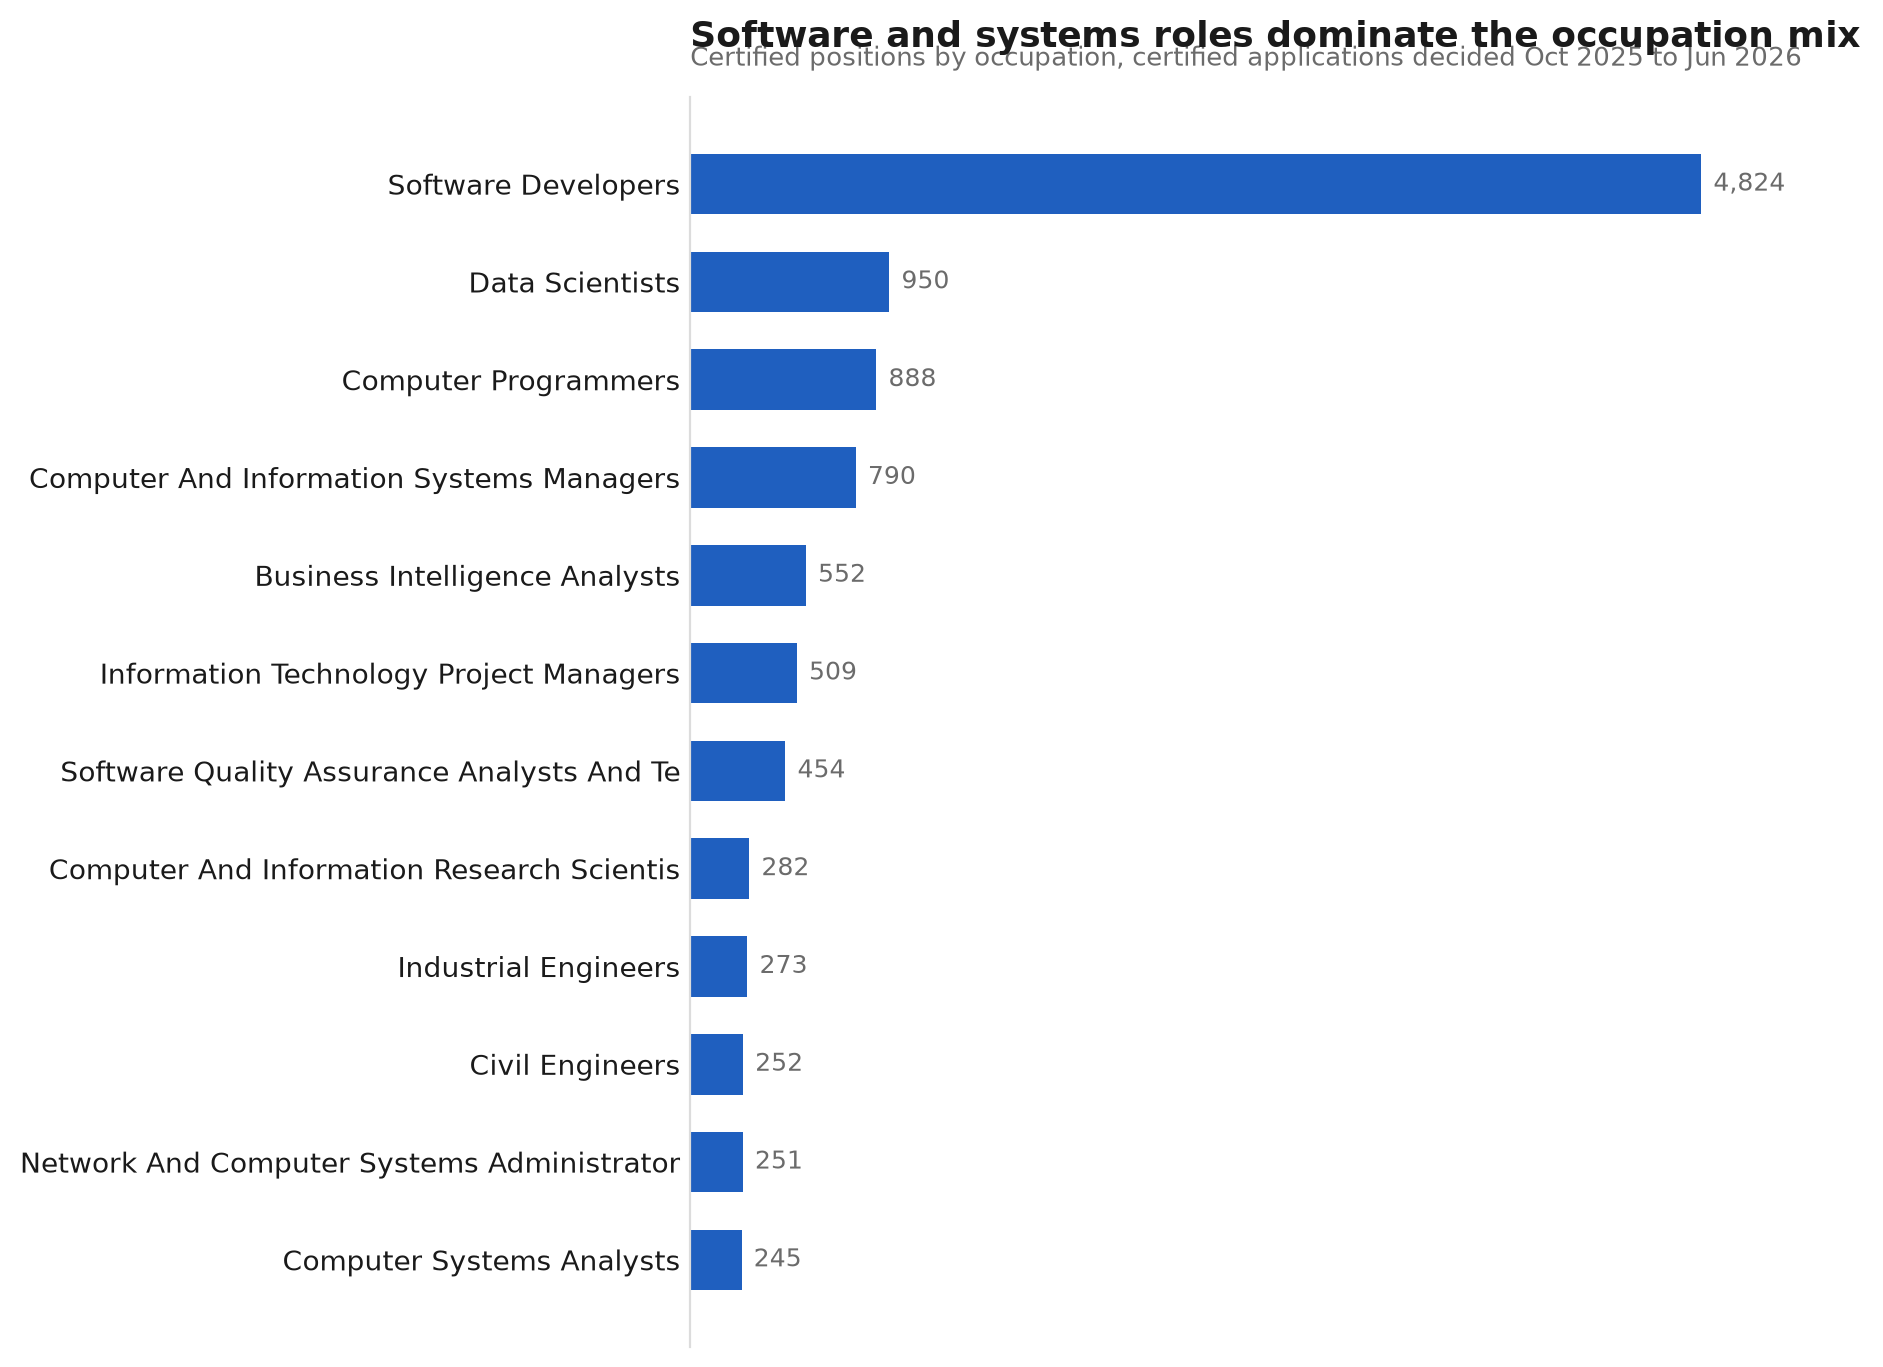
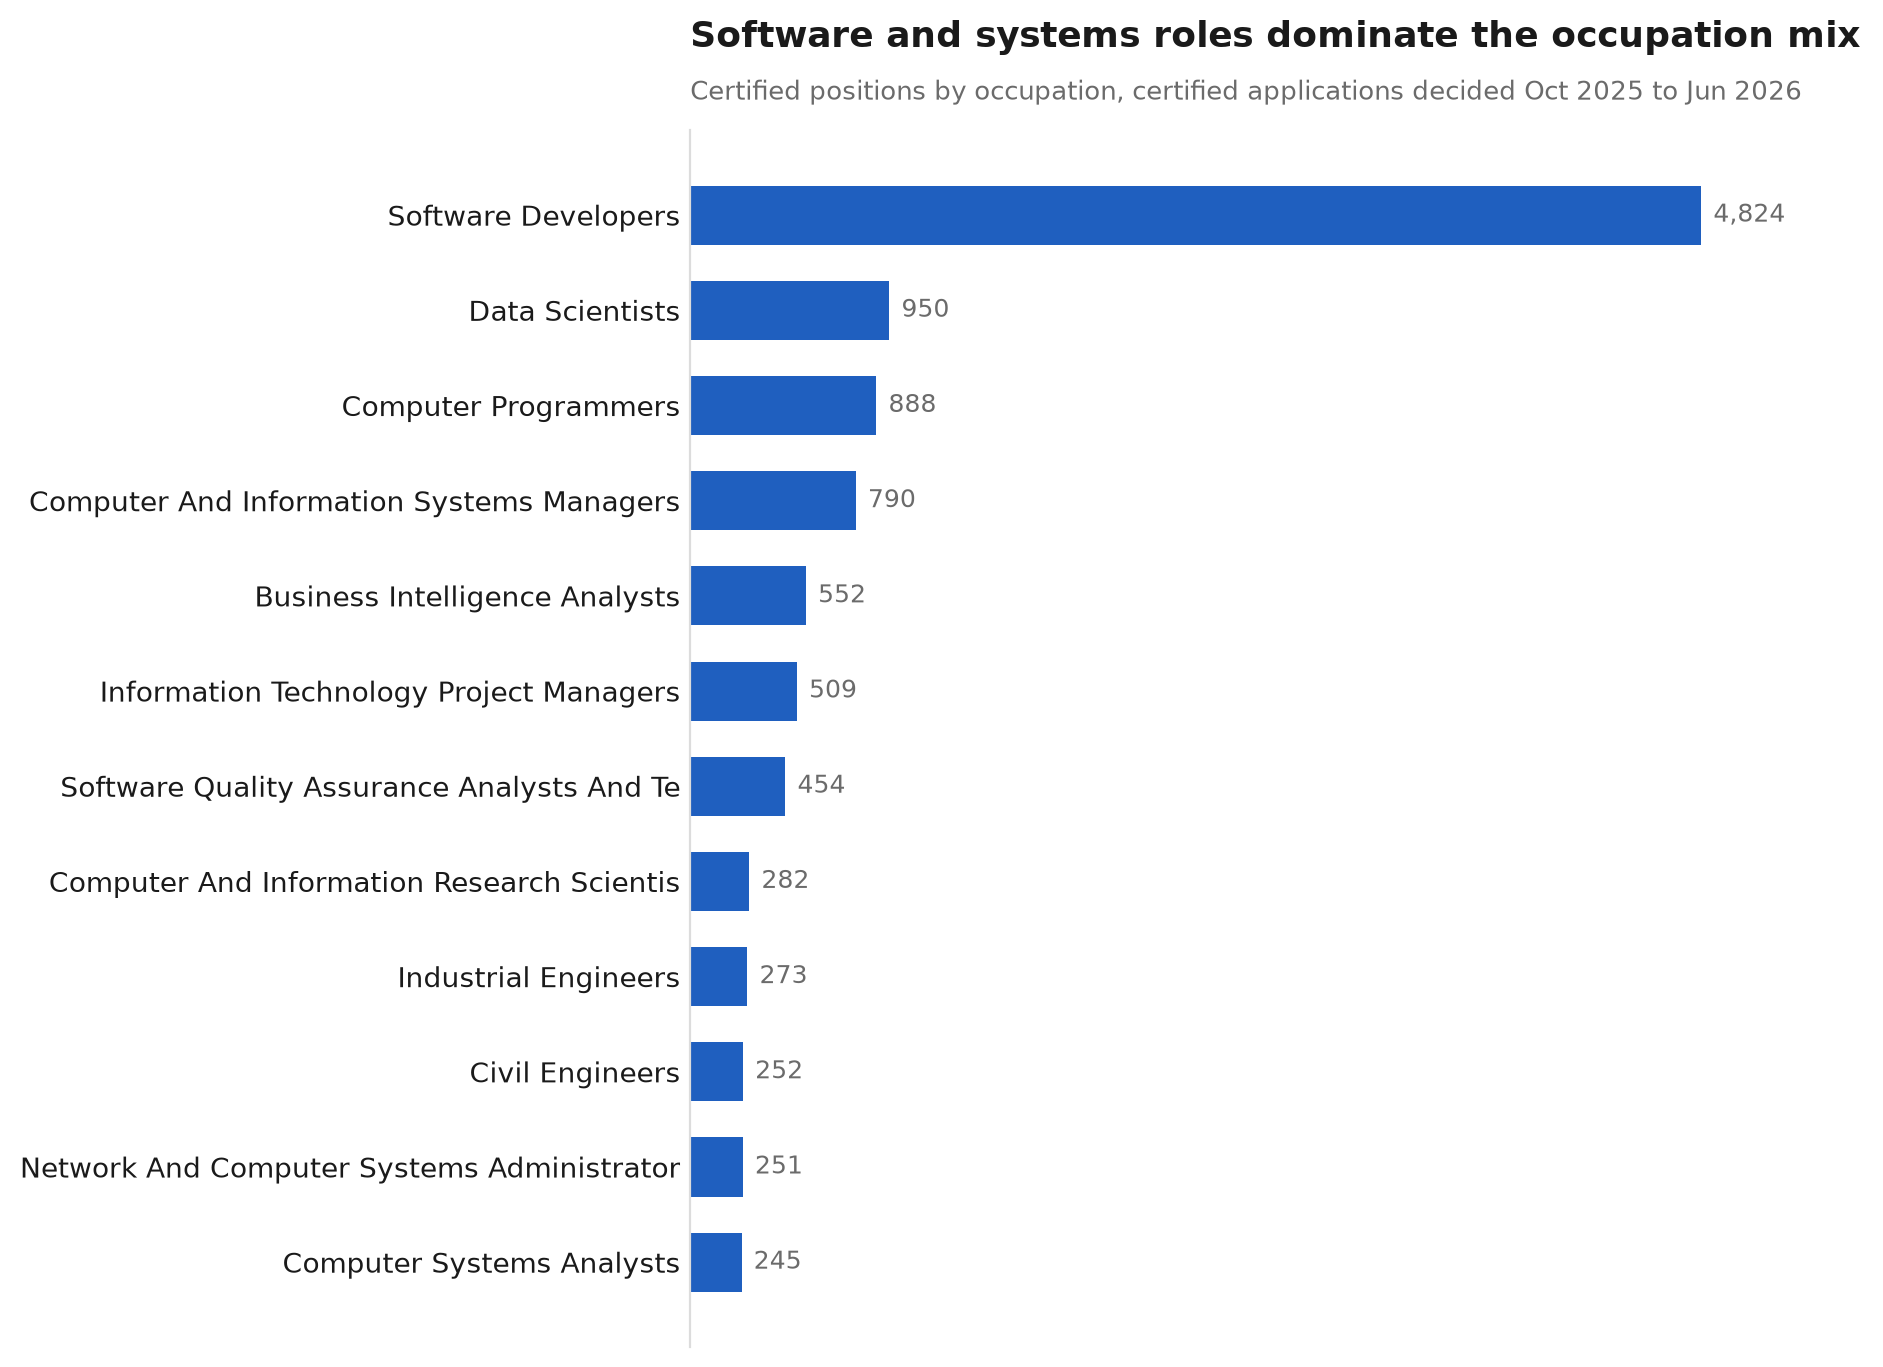
Increase chart title padding to prevent subtitle overlap

diff --git a/src/step5_analyze.py b/src/step5_analyze.py
@@ -35,7 +35,7 @@ def barh(frame, labels, values, title, subtitle, fname, fmt="{:,.0f}"):
     ax.spines[["top","right", "bottom"]].set_visible(False)
     ax.spines["left"].set_color(GRID)
 
-    ax.set_title(title, loc="left", fontsize=13, color=INK, pad=18, weight="bold")
+    ax.set_title(title, loc="left", fontsize=13, color=INK, pad=30, weight="bold")
     ax.text(0, 1.02, subtitle, transform=ax.transAxes,
             fontsize = 9.5, color=MUTED, va="bottom")
 
@@ -62,7 +62,8 @@ def hist(series, title, subtitle, xlabel, fname, marker=None, marker_label=""):
     ax.grid(axis="y", color=GRID, alpha=0.5, linewidth=0.7)
     ax.set_axisbelow(True)
 
-    ax.set_title(title, loc="left", fontsize=13, color=INK, pad=18, weight="bold")
+    ax.set_title(title, loc="left", fontsize=13, color=INK, pad=30
+    , weight="bold")
     ax.text(0, 1.02, subtitle, transform=ax.transAxes,
             fontsize=9.5, color=MUTED, va="bottom")
 
